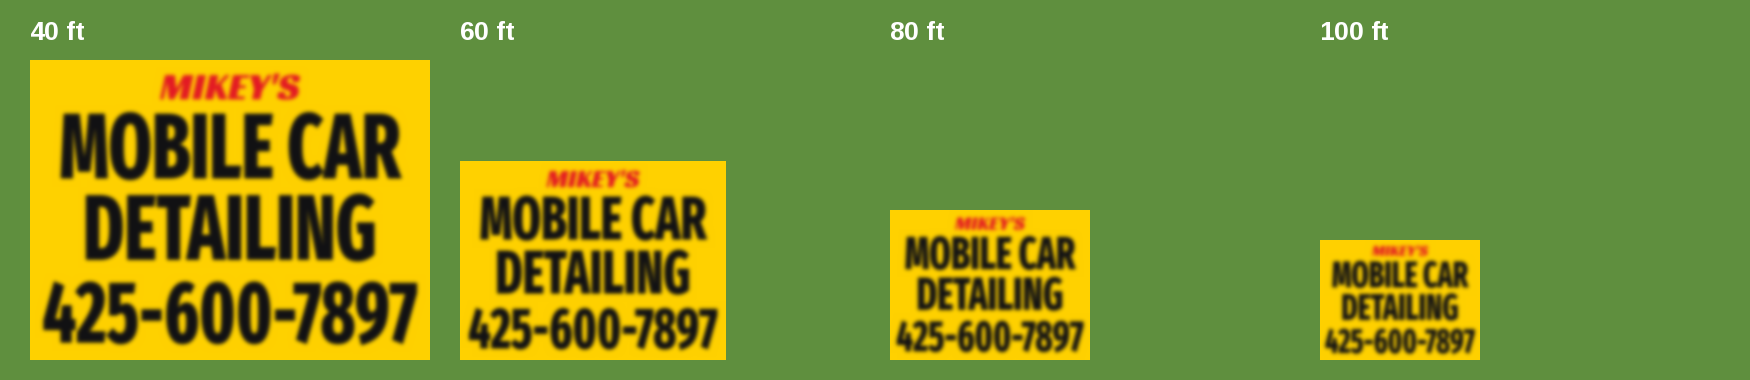
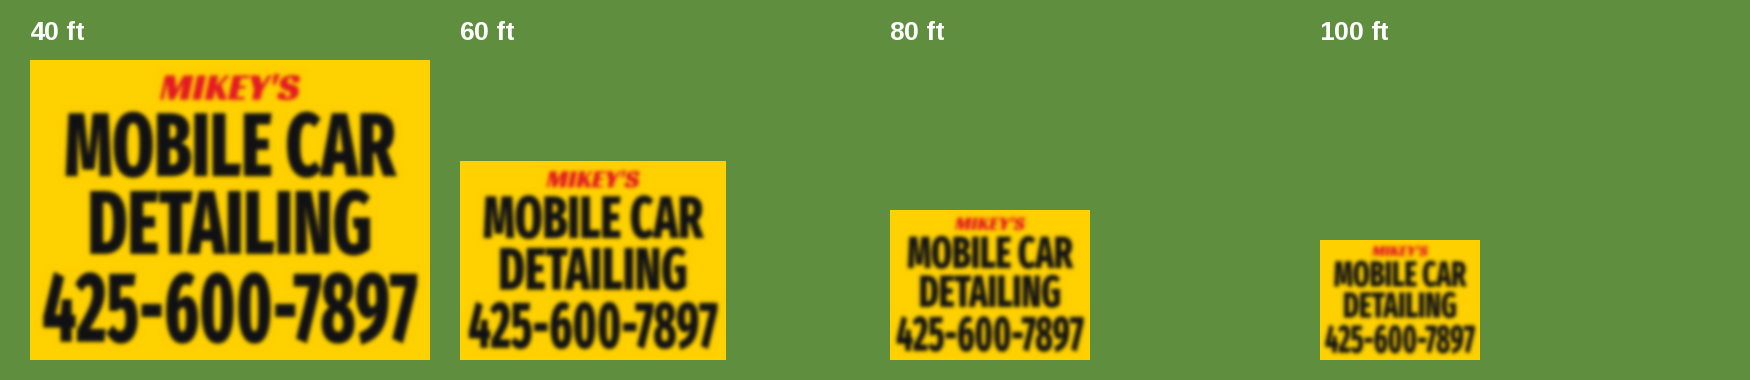
Yard sign: bigger phone number
Mikey asked for a bigger number. It already fills the 22.5 in width, so
it grows taller: stretched 1.42x (was 1.25x), 4.15 in (was 3.65 in),
reading to about 79 ft (was 75). The words give up 0.1 in (3.75 in,
68 ft, still over the 65 ft floor) and the gaps tighten slightly.

Claude-Session: https://claude.ai/code/session_013CRjpGNGWJVk8pFxfy2eqz

Changed region(s): [[0.0, 0.2895, 0.432, 0.9263], [0.4937, 0.6079, 0.6171, 0.9263], [0.7406, 0.6947, 0.864, 0.9263]]

diff --git a/print/yard-signs/README.md b/print/yard-signs/README.md
@@ -112,9 +112,9 @@ so most people act on a sign later, by the name or the number).
 
 ```
             MIKEY'S               (red, Racing Sans One, the logo's face: 1.45 in letters)
-          MOBILE CAR              (black, Fira Sans Extra Condensed ExtraBold, 1.25x tall: 3.86 in letters)
+          MOBILE CAR              (black, Fira Sans Extra Condensed ExtraBold, 1.25x tall: 3.75 in letters)
            DETAILING
-          425-600-7897            (same face and stretch, the full 22.5 in across: 3.65 in digits)
+          425-600-7897            (same face, 1.42x tall, the full 22.5 in across: 4.15 in digits)
 ```
 
 **How far each line reads** (`python3 print/tools/sign-legibility.py`, which
@@ -122,9 +122,9 @@ also draws `driver-view.png`, the sign through 20/40 eyes at 40 to 100 ft):
 
 | | 2026-10-01 sign (white, Anton number) | This sign |
 |---|---|---|
-| MOBILE CAR DETAILING | 46 ft | **70 ft** |
-| 425-600-7897 | 64 ft | **75 ft** |
-| The whole message | 46 ft | **70 ft** |
+| MOBILE CAR DETAILING | 46 ft | **68 ft** |
+| 425-600-7897 | 64 ft | **79 ft** |
+| The whole message | 46 ft | **68 ft** |
 
 Why it's laid out that way:
 
@@ -142,15 +142,19 @@ Why it's laid out that way:
   The old number was Anton stretched to 5 in, but its insides are slits, and
   past about 64 ft the 0, 6, 8 and 9 turned into the same blob. Fira Sans Extra
   Condensed keeps those gaps open (same idea as highway sign lettering), so a
-  3.65 in number reads farther than the 5 in one did. About 25 faces and
+  4.15 in number reads farther than the 5 in one did. About 25 faces and
   weights were scored (Anton, Barlow Condensed, Overpass, Oswald, League
   Gothic, Bebas Neue, B612, Atkinson Hyperlegible, Roboto Condensed and more);
   Fira read farthest at this width, at every eyesight level tried.
 - **What it is reads nearly as far as the number.** On the old sign there was a
   stretch between 46 and 64 ft where a driver could make out a phone number
   but not what it was for. Now MOBILE CAR DETAILING is the biggest thing and
-  both read out to about 70 to 75 ft: someone who can read the number already
+  both read out to about 68 to 79 ft: someone who can read the number already
   knows it's a car detailer.
+- **The number is the biggest thing** (Mikey, 2026-10-02: "need the phone
+  number bigger"). It is stretched taller than the words (1.42x against
+  1.25x), which is how it grows when it already fills the width: 3.65 in
+  became 4.15 in, and the words gave up 0.1 in.
 - **The name sits back.** MIKEY'S stays brand red and small (under half the
   size of MOBILE CAR DETAILING, Mikey, 2026-10-01). It's there for the people
   who pass it every day and later search the name, not for the first glance.

diff --git a/CLAUDE.md b/CLAUDE.md
@@ -318,8 +318,8 @@ honest cost math, where signs go, the crew link, pay, and lead tracking.
   MIKEY'S small in red / MOBILE CAR / DETAILING / 425-600-7897, no red band
   and no slogan line). Since 2026-10-02 it's black on **safety yellow** in Fira
   Sans Extra Condensed, chosen for distance: the words and the number read to
-  about 70 to 75 ft, against 46 and 64 ft for the old white sign with its 5 in
-  Anton number. Judge a new draft on `python3 print/tools/sign-legibility.py`
+  about 68 and 79 ft (number 4.15 in tall, Mikey wanted it bigger), against
+  46 and 64 ft for the old white sign with its 5 in Anton number. Judge a new draft on `python3 print/tools/sign-legibility.py`
   (feet a 20/40 driver can read it from), not on how tall the type looks.
   If a QR ever goes on a sign, it is
   `https://mikeysdetailing.com/?utm_source=yardsign#booking`; the dashboard tags
